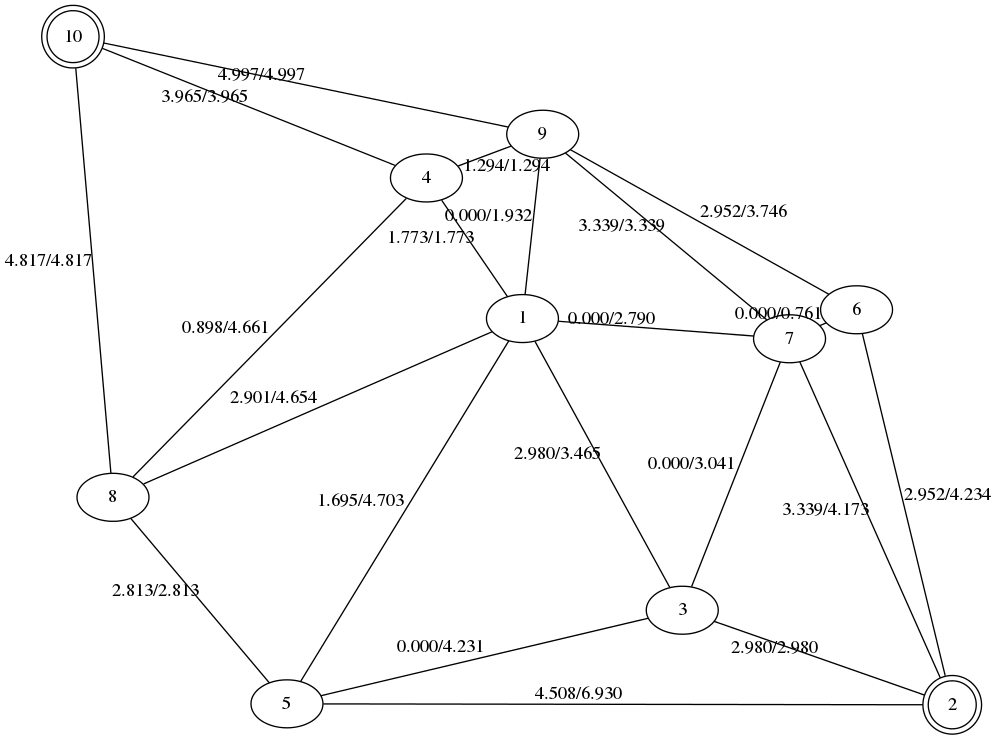
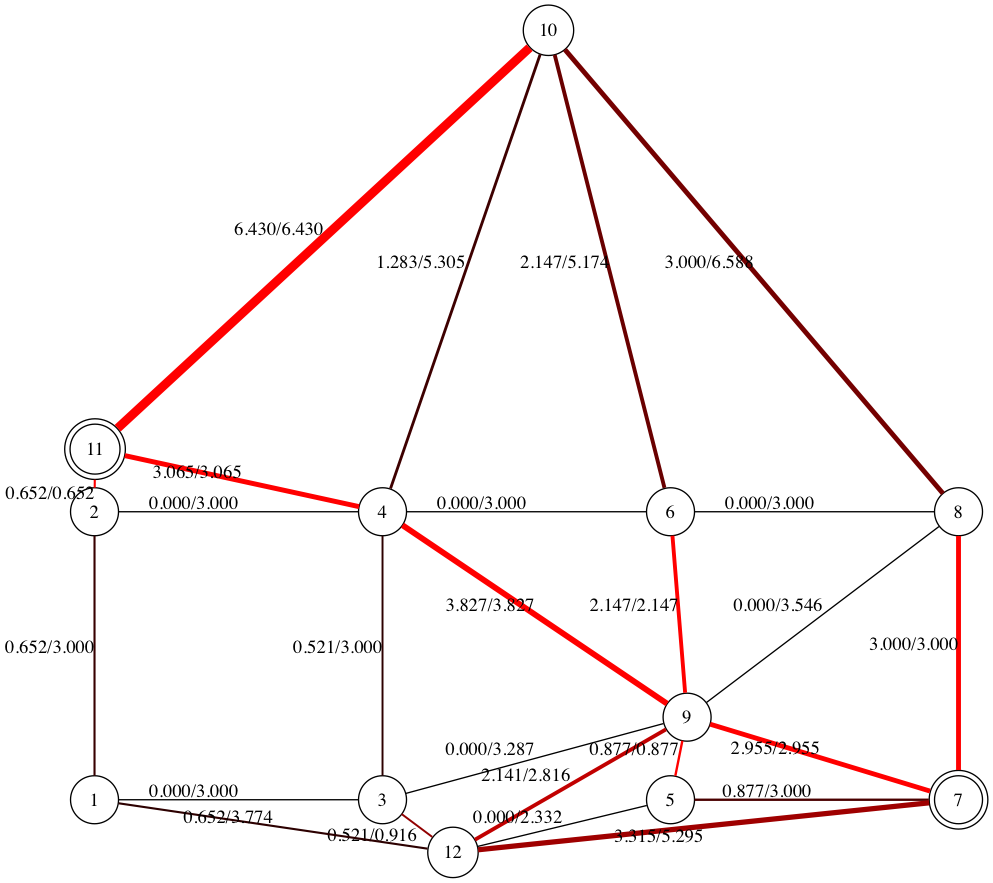
updated to have edge weight and color based on proportion of maxflow and use of capacity

diff --git a/max-flow-delaunay.py b/max-flow-delaunay.py
@@ -19,30 +19,37 @@ def dist(a, b):
     return math.sqrt((b.y - a.y)**2 + (b.x - a.x)**2)
 
 def farthest_points(points):
-    pairs = permutations(points, 2)
-    max_pair = pairs.next()
-    max_len = dist(*max_pair)
-    for pair in pairs:
-        length = dist(*pair)
-        if(length > max_len or (length == max_len and slope(*pair) > slope(*max_pair))):
-            max_pair = pair
-            max_len = length
+    return max(permutations(points, 2), key=lambda (a, b): (dist(a, b), slope(a, b)))
+    # pairs = permutations(points, 2)
+    # max_pair = pairs.next()
+    # max_len = dist(*max_pair)
+    # for pair in pairs:
+    #     length = dist(*pair)
+    #     if(length > max_len or (length == max_len and slope(*pair) > slope(*max_pair))):
+    #         max_pair = pair
+    #         max_len = length
+    # return max_pair
 
-    return max_pair
+def dot_edge(edge, flow, maxflow):
+    weight = 1 + 9 * float(flow)/maxflow
+    red = int(flow/edge.c * 255)
+    return '%d -- %d [label="%5.3f/%5.3f", penwidth="%f", color="#%x0000"]\n' % (edge.a.index, edge.b.index, flow, edge.c, weight, red)
 
-def dot_output(network, s, t, filename='out.dot'):
+def dot_point(point, shape="circle"):
+    return '%d [pos="%f,%f!",shape="%s"]\n' % (point.index, point.x, point.y, shape)
+
+def dot_output(network, maxflow, s, t, filename='out.dot'):
     #prints the flow network to a file in dot format
     points = network.vertices()
     with open('out.dot', 'w') as f:
         f.write('graph maxflow {\n')
         for point in points:
-            f.write('%d [pos="%f,%f!"]\n' % (point.index, point.x, point.y))
+            f.write(dot_point(point))
         for point in [s, t]:
-            f.write('%d [pos="%f,%f!",shape="doublecircle"]\n' % (point.index, point.x, point.y))
-        edges = [edge for edge in network.edges() if edge.a.index < edge.b.index]
+            f.write(dot_point(point, "doublecircle"))
+        edges = (edge for edge in network.edges() if edge.a.index < edge.b.index)
         for edge in edges:
-            f.write('%d -- %d [label="%5.3f/%5.3f"]\n' % (edge.a.index, edge.b.index, abs(network.flow[edge]), edge.c))
-            #f.write('%d -- %d\n' % (edge.a.index, edge.b.index))
+            f.write(dot_edge(edge, abs(network.flow[edge]), maxflow))
         f.write('}\n')
 
 def console_output(network, maxflow, s, t):
@@ -76,7 +83,7 @@ def main():
     flow = network.max_flow(s, t)
 
     console_output(network, flow, s, t)
-    dot_output(network, s, t)
+    dot_output(network, flow, s, t)
 
 if __name__ == '__main__':
     main()

diff --git a/README.md b/README.md
@@ -6,7 +6,7 @@ There's an issue with stack depth, so don't throw too many points at it.
 
 ## Usage:
 
-`python2 max-flow-delaunay.py inputfile.txt`
+`python max-flow-delaunay.py inputfile.txt`
 
 
 ## If graphviz installed, then you can:
@@ -18,12 +18,12 @@ to generate a pdf of the solution
 
 ## Helpful scripts to generate points:
 
-`python2 randgrid.py m n o > out.txt`
+`python randgrid.py m n o > out.txt`
 
 where m, n, and o are nonnegative integers. 
 Generates an m x n grid with o additional random points
 
-`python2 randdiamond.py n o > out.txt`
+`python randdiamond.py n o > out.txt`
 
 where n and o are nonnegative integers. 
 Generates an n x n diamond shape with o additional random points
